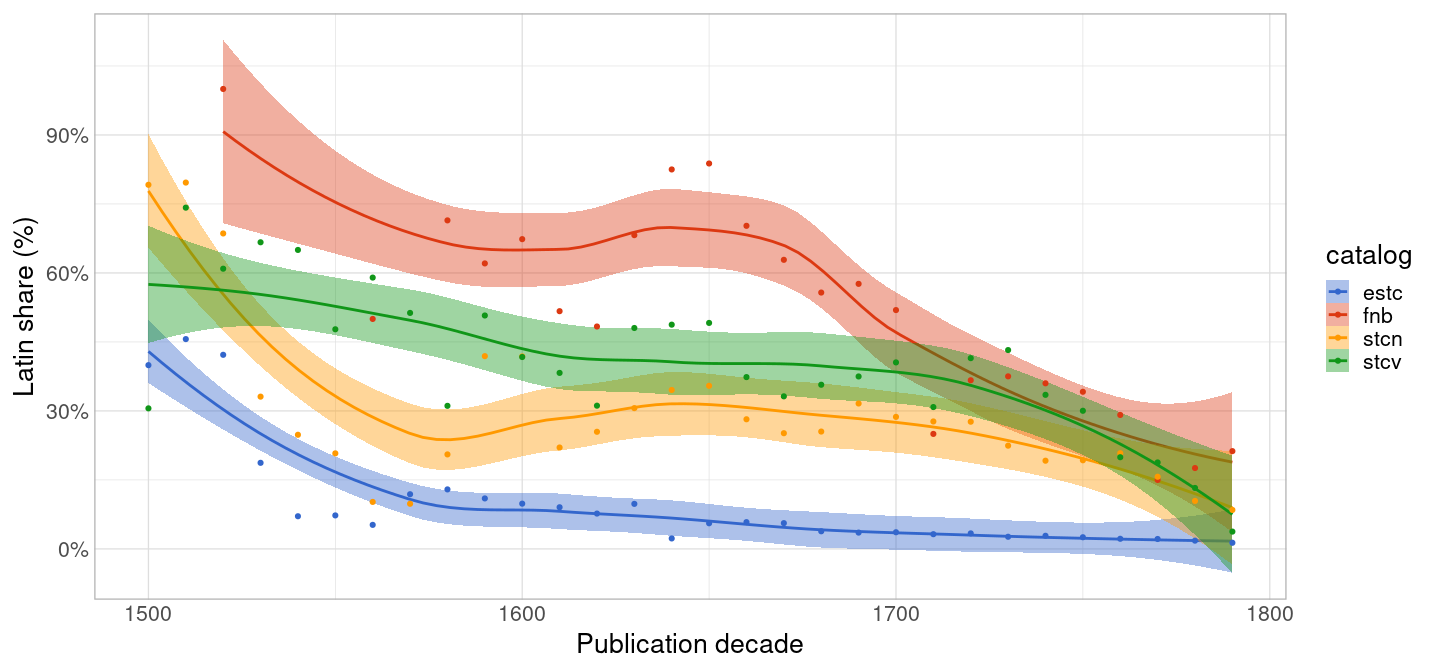
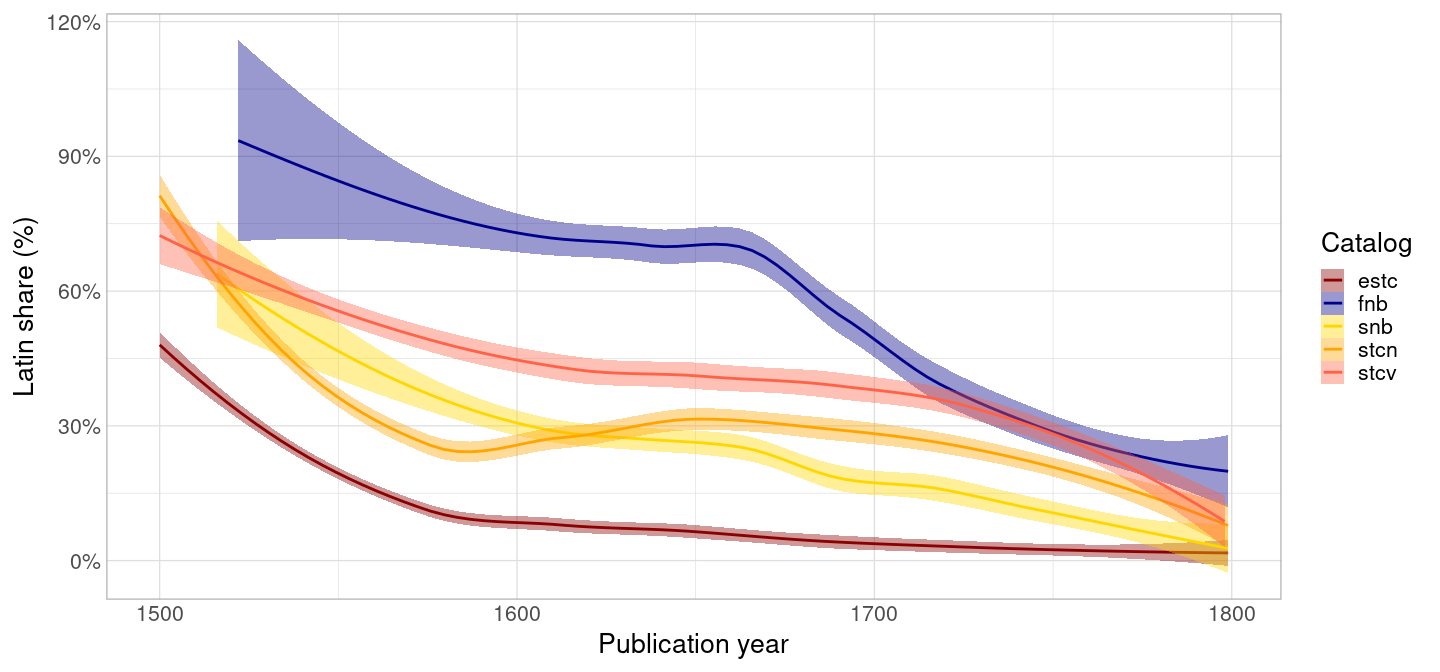
ok

diff --git a/code/work/leo/language.md b/code/work/leo/language.md
@@ -30,18 +30,4 @@ Stacked histogram of language shares per decade until 1830.
 
 ### Latin share 1500-1800
 
-\`\`\`{r latin\_share, echo=FALSE, message=FALSE, warning=FALSE,
-out.width=“50%”, fig.width=15, fig.height=7 filter &lt;- dplyr::filter
-dfs &lt;- df %&gt;% filter(publication\_year &gt;= 1500) %&gt;%
-filter(publication\_year &lt; 1800) %&gt;%  
-group\_by(catalog, publication\_decade, language\_primary) %&gt;%
-summarise(n=n()) %&gt;% mutate(f=n/sum(n)) %&gt;%
-filter(language\_primary==“Latin”)
-
-p &lt;- ggplot(dfs, aes(x = publication\_decade, y = f, color=catalog,
-fill=catalog)) + geom\_smooth() + geom\_point() +
-theme\_comhis(“discrete”, base\_size=20) + labs(x = “Publication
-decade”, y = “Latin share (%)”) +
-scale\_y\_continuous(label=scales::percent)
-
-print(p) \`\`\`
+<img src="language_files/figure-markdown_strict/latin_share-1.png" width="50%" />
